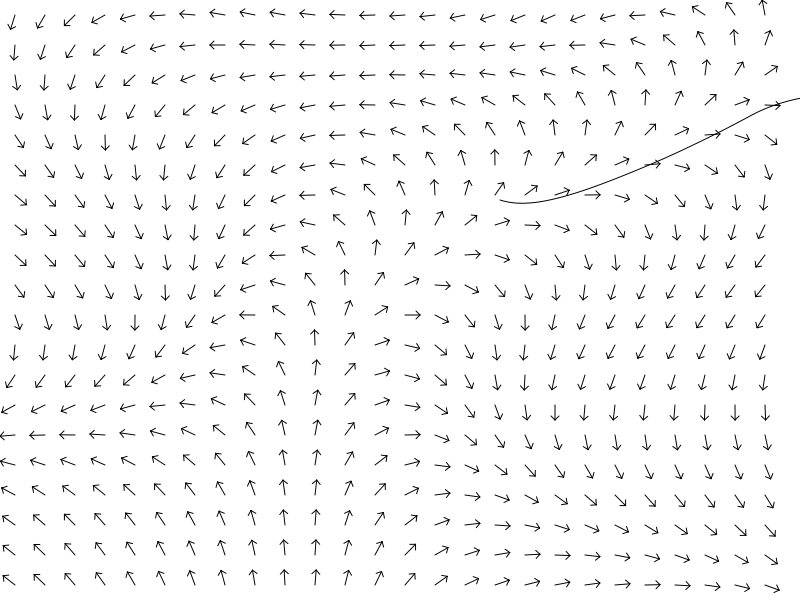
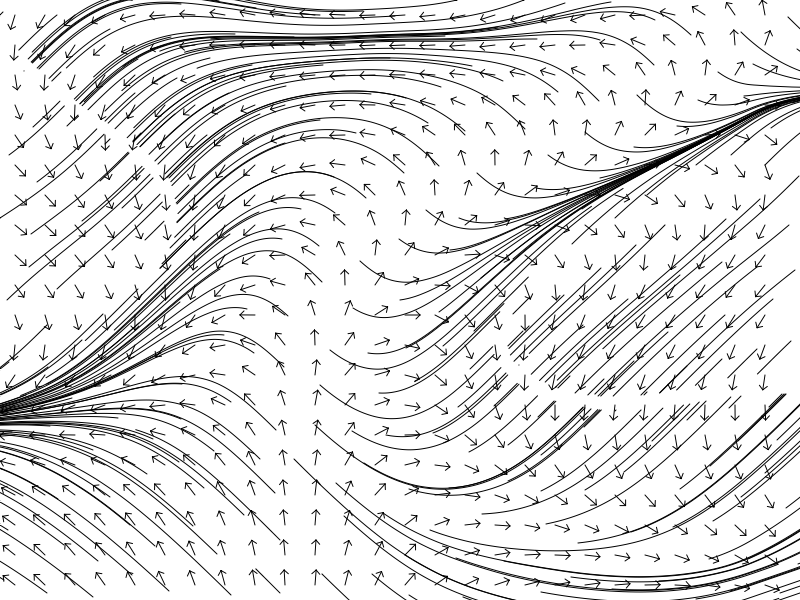
Implement poisson disc sampling

diff --git a/core/renderer.go b/core/renderer.go
@@ -5,6 +5,7 @@ import (
 
 	"github.com/emilwidlund/esmerelda/vectors"
 	"github.com/fogleman/gg"
+	"github.com/fogleman/poissondisc"
 )
 
 func Draw(field *VectorField) *gg.Context {
@@ -49,7 +50,23 @@ func DrawArrow(c *gg.Context, x int, y int, angle float64, length int) {
 }
 
 func DrawSimulation(c *gg.Context, field *VectorField) {
-	DrawCurve(c, field, 500, 200)
+	const SIMULATION_COUNT = 500
+
+	d := float64(field.width) / math.Sqrt((float64(SIMULATION_COUNT)*float64(field.height))/float64(field.width))
+	x0 := 0.                    // bbox min
+	y0 := 0.                    // bbox min
+	x1 := float64(field.width)  // bbox max
+	y1 := float64(field.height) // bbox max
+	r := d * 0.8                // min distance between points
+	k := 15                     // max attempts to add neighboring point
+
+	points := poissondisc.Sample(x0, y0, x1, y1, r, k, nil)
+
+	for _, p := range points {
+		// c.DrawCircle(p.X, p.Y, 5)
+		// c.Fill()
+		DrawCurve(c, field, int(p.X), int(p.Y))
+	}
 }
 
 func DrawCurve(c *gg.Context, field *VectorField, x int, y int) {
